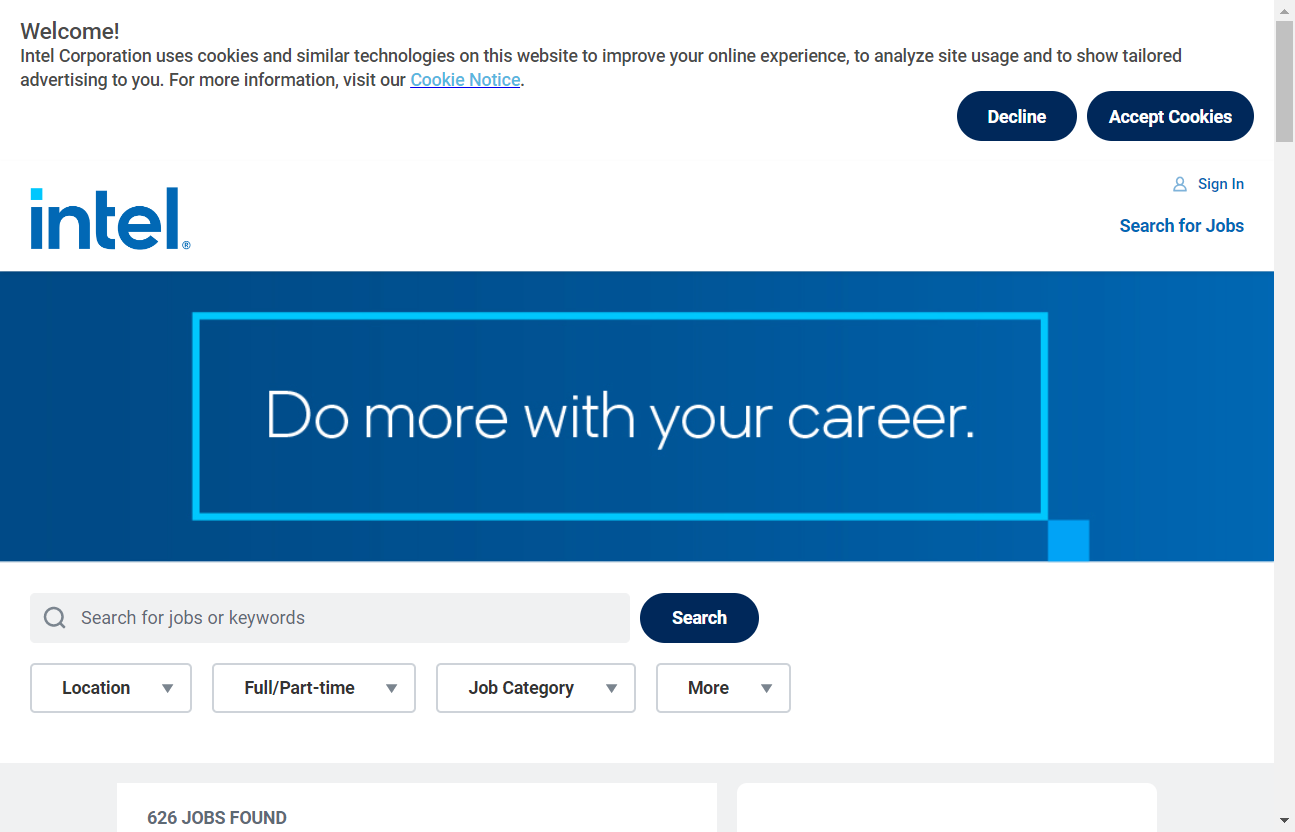
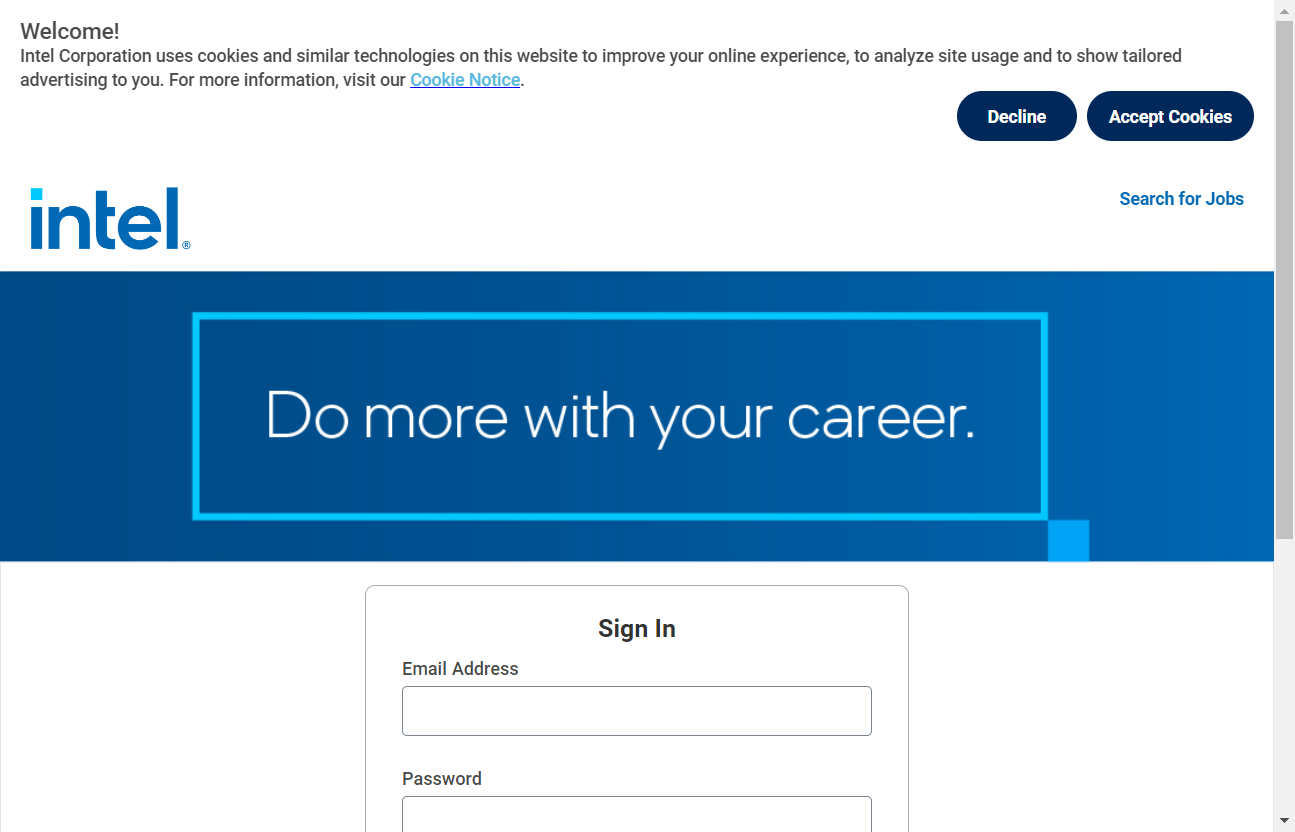
finished checking job search initial checks

diff --git a/testCases/test_searchForJob.py b/testCases/test_searchForJob.py
@@ -1,0 +1,116 @@
+from pageObjects.LoginPage import LoginPage
+from pageObjects.SearchForJob import SearchForJob
+from utilities.readProperties import ReadConfig
+from utilities.customLogger import LogGen
+import string, time, random, pytest
+
+
+class Test_003_searchForJob:
+    baseURL = ReadConfig.getApplicationURL()
+    username = ReadConfig.getUsername()
+    password = ReadConfig.getPassword()
+    logger = LogGen.loggen()
+
+    @pytest.mark.skip(reason='Already tested, need to skipp for next test')
+    def test_searchForJobPage(self, setup):
+        self.logger.info("*************** Test_003_searchForJob *******************")
+        self.logger.info("***************** Verifying job searching Page*****************")
+        self.driver = setup
+        self.driver.get(self.baseURL)
+        # first we need to login
+        self.lp = LoginPage(self.driver)
+        time.sleep(7)
+        self.lp.setUserName(self.username)
+        self.lp.setPassword(self.password)
+        self.lp.clickLogin()
+        self.logger.info("**************** Login Soccess ******************")
+        self.logger.info("**************** Going to Search For Job page Test ******************")
+        time.sleep(7)
+        # Now we need to go to the search for a job page
+        self.sfj = SearchForJob(self.driver)
+        self.sfj.goto_searchForJobPage()
+        time.sleep(7)
+        act_title = self.driver.title
+
+        if act_title == 'Careers':
+            assert True
+            self.logger.info("***************** Search For Job page PASSED *****************")
+        else:
+            self.driver.save_screenshot(".\\Screenshots\\test_searchForJobPage.png")
+            self.driver.close()
+            self.logger.error("***************** Search For Job page FAILED *****************")
+            assert False
+
+    @pytest.mark.skip(reason='Already tested, need to skipp for next test')
+    def test_SearchJobRequest(self, setup):
+        self.logger.info("***************** Verifying Search Job Request *****************")
+        self.driver = setup
+        self.driver.get(self.baseURL)
+        # first we need to login
+        self.lp = LoginPage(self.driver)
+        time.sleep(7)
+        self.lp.setUserName(self.username)
+        self.lp.setPassword(self.password)
+        self.lp.clickLogin()
+        self.logger.info("**************** Login Soccess ******************")
+        time.sleep(7)
+        # Now we need to go to the search for a job page
+        self.sfj = SearchForJob(self.driver)
+        self.sfj.gotoSearchForJobPage()
+
+        time.sleep(7)
+        role = 'software developer'
+        act_title = self.driver.title
+
+        if act_title != 'Careers':
+            self.driver.save_screenshot(".\\Screenshots\\test_SearchJobRequest.png")
+            self.driver.close()
+            self.logger.error("***************** Job Request Search FAILED *****************")
+            assert False
+        else:
+            self.logger.info("***************** Search For Job page PASSED *****************")
+            self.logger.info("***************** Continue to Search Job Request *****************")
+            self.sfj.submitJobRequest(role)
+            self.logger.info("***************** Job Request Search PASS *****************")
+            self.driver.close()
+            assert True
+
+    def test_clickOnJobsLink(self, setup):
+        self.logger.info("***************** Verifying Click on Jobs Link *****************")
+        self.driver = setup
+        self.driver.get(self.baseURL)
+        # first we need to login
+        self.lp = LoginPage(self.driver)
+        time.sleep(7)
+        self.lp.setUserName(self.username)
+        self.lp.setPassword(self.password)
+        self.lp.clickLogin()
+        self.logger.info("**************** Login Soccess ******************")
+        time.sleep(7)
+        # Now we need to go to the search for a job page
+        self.sfj = SearchForJob(self.driver)
+        self.sfj.gotoSearchForJobPage()
+
+        time.sleep(7)
+        role = 'software developer'
+        act_title = self.driver.title
+
+        if act_title != 'Careers':
+            self.driver.save_screenshot(".\\Screenshots\\test_SearchJobRequest.png")
+            self.driver.close()
+            self.logger.error("***************** Job Request Search FAILED *****************")
+            assert False
+        else:
+            self.logger.info("***************** Search For Job page PASSED *****************")
+            self.logger.info("***************** Continue to Search Job Request *****************")
+            self.sfj.submitJobRequest(role)
+            self.logger.info("***************** Job Request Search PASS *****************")
+            self.logger.info("***************** Continue to Click on Jobs Link Test *****************")
+            self.sfj.clickOnJobsLink()
+            self.logger.info("***************** Click on Jobs Link Test PASS*****************")
+            self.driver.close()
+            assert True
+
+
+
+

diff --git a/pageObjects/SearchForJob.py b/pageObjects/SearchForJob.py
@@ -1,0 +1,56 @@
+from selenium.webdriver.common.by import By
+from selenium.webdriver.common.action_chains import ActionChains
+import time
+
+class SearchForJob:
+    # Search for a job
+    # selcting object and click with js if no other option is available
+    # self.listitem = self.driver.find_element(By.ID, self.element_id)
+    # self.driver.execute_script("argumant[0].click();", self.lisitem)
+    button_search_job = '//button[@data-automation-id="navigationItem-Search for Jobs"]'
+    textbox_search_for_job =  '//input[@type="text"]'
+    button_search_for_job_xpath = '//button[@data-automation-id="keywordSearchButton"]'
+    checkbox_location_xpath = '//button[@data-automation-id="distanceLocation"]'
+    checkbox_full_part_time_xpath = '//button[@data-automation-id="employmentType"]'
+    checkbox_category_xpath = '//button[@data-automation-id="jobFamilyGroup"]'
+    input_location_xpath = '//input[@id="1e4a4eb3adf1013563ba9174bf817fcd"]'
+    input_full_part_time_xpath = '//input[@id="dc193d6170de10860883d9bf7c0e01a9"]'
+    input_category_xpath = '//input[@id="dc8bf79476611087d67bfec986b5704c"]'
+    button_view_jobs_xpath = '//button[@data-automation-id="viewAllJobsButton"]'
+    li_roles_list_xpath = '//li[@class="css-1q2dra3"]'
+    href_role_link_xpath = '//a[@class="css-19uc56f"]'
+
+    def __init__(self, driver):
+        self.driver = driver
+
+    def gotoSearchForJobPage(self):
+        clickable = self.driver.find_element(By.XPATH, self.button_search_job)
+        ActionChains(self.driver)\
+            .move_to_element(clickable)\
+            .click()\
+            .perform()
+
+
+    def submitJobRequest(self, position):
+        self.driver.find_element(By.XPATH, self.textbox_search_for_job).send_keys(position)
+        self.driver.find_element(By.XPATH, self.checkbox_location_xpath).click()
+        time.sleep(1)
+        self.driver.find_element(By.XPATH, self.input_location_xpath).click()
+        time.sleep(1)
+        self.driver.find_element(By.XPATH, self.checkbox_full_part_time_xpath).click()
+        time.sleep(1)
+        self.driver.find_element(By.XPATH, self.input_full_part_time_xpath).click()
+        time.sleep(1)
+        self.driver.find_element(By.XPATH, self.checkbox_category_xpath).click()
+        time.sleep(1)
+        self.driver.find_element(By.XPATH, self.input_category_xpath).click()
+        time.sleep(1)
+        self.driver.find_element(By.XPATH, self.button_search_for_job_xpath).click()
+        time.sleep(3)
+
+    def clickOnJobsLink(self):
+        arr_list = self.driver.find_elements(By.XPATH, self.li_roles_list_xpath)
+        print(f"--------------- numbers of elements: {len(arr_list)}")
+        for element in arr_list:
+            element.find_element(By.XPATH, self.href_role_link_xpath).click()
+            time.sleep(3)

diff --git a/pageObjects/LoginPage.py b/pageObjects/LoginPage.py
@@ -1,13 +1,10 @@
 from selenium.webdriver.common.by import By
-from selenium.webdriver.support.ui import WebDriverWait
-from selenium.webdriver.support import expected_conditions as EC
 from selenium.webdriver.common.action_chains import ActionChains
 import time
 
 class LoginPage:
-    textbox_username_xpath = "//input[@data-automation-id='email']"
+    textbox_username_xpath = "//input[@type='text']"
     textbox_password_xpath = "//input[@type='password']"
-    button_searc_job = '//button[@data-automation-id="navigationItem-Search for Jobs"]'
     button_sign_xpath = '//button[@data-automation-id="signInSubmitButton"]'
     button_signout_pre_xpath = '//button[@id="accountSettingsButton"]'
     button_signout_post_xpath = '//button[@id="item1"]'
@@ -24,6 +21,8 @@ class LoginPage:
         self.driver.find_element(By.XPATH, self.textbox_password_xpath).send_keys(password)
 
     def clickLogin(self):
+        # listitem = self.driver.find_element(By.XPATH, self.button_sign_xpath)
+        # self.driver.execute_script("argumant[0].click();", listitem)
         clickable = self.driver.find_element(By.XPATH, self.button_sign_xpath)
         ActionChains(self.driver)\
             .move_to_element(clickable)\

diff --git a/testCases/test_login.py b/testCases/test_login.py
@@ -18,7 +18,7 @@ class Test_001_Login:
         time.sleep(5)
         act_title = self.driver.title
 
-        if act_title == 'Careers':
+        if act_title == 'Workday':
             assert True
             self.driver.close()
             self.logger.info("***************** Home Page Title PASSED *****************")
@@ -34,15 +34,17 @@ class Test_001_Login:
         self.driver = setup
         self.driver.get(self.baseURL)
         self.lp = LoginPage(self.driver)
-        time.sleep(3)
+        time.sleep(7)
         self.lp.setUserName(self.username)
         self.lp.setPassword(self.password)
         self.lp.clickLogin()
+        self.logger.info("************ login Success **********************")
         time.sleep(5)
         act_title = self.driver.title
 
-        if act_title == 'Careers':
+        if act_title == 'Candidate Home':
             assert True
+            self.lp.clickLogout()
             self.driver.close()
             self.logger.info("***************** Loging test PASSED *****************")
         else:

diff --git a/testCases/test_login_ddt.py b/testCases/test_login_ddt.py
@@ -26,7 +26,6 @@ class Test_002_DDT_Login:
             self.password = XLUtils.readData(self.path, 'Sheet1', r, 2)
             self.exp = XLUtils.readData(self.path, 'Sheet1', r, 3)
             time.sleep(3)
-            # self.driver.save_screenshot("before login phase")
             self.lp.setUserName(self.user)
             self.lp.setPassword(self.password)
             self.lp.clickLogin()
